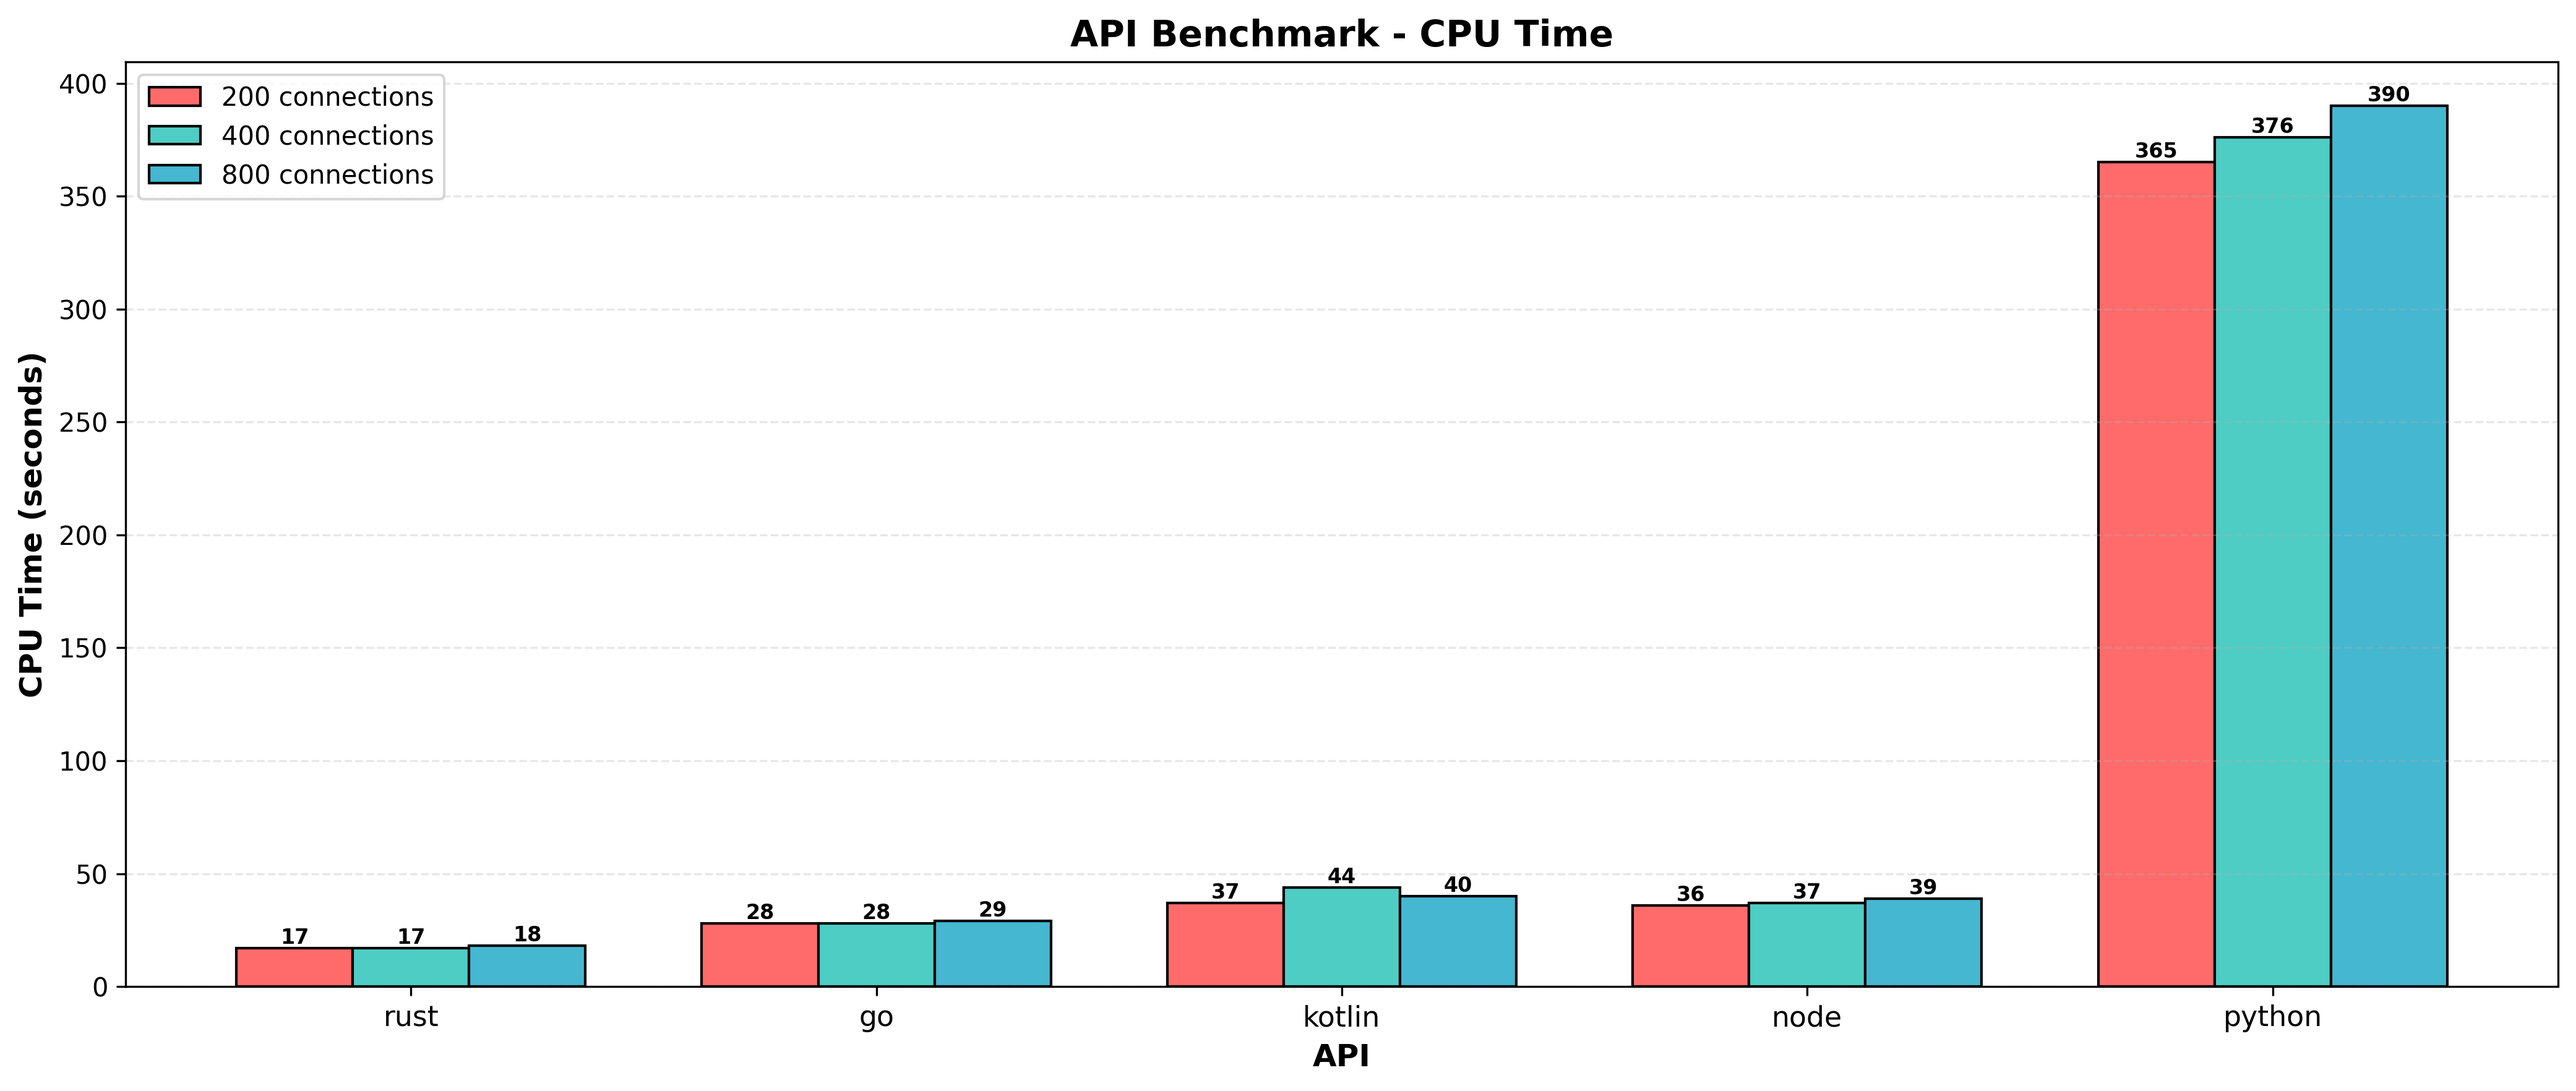
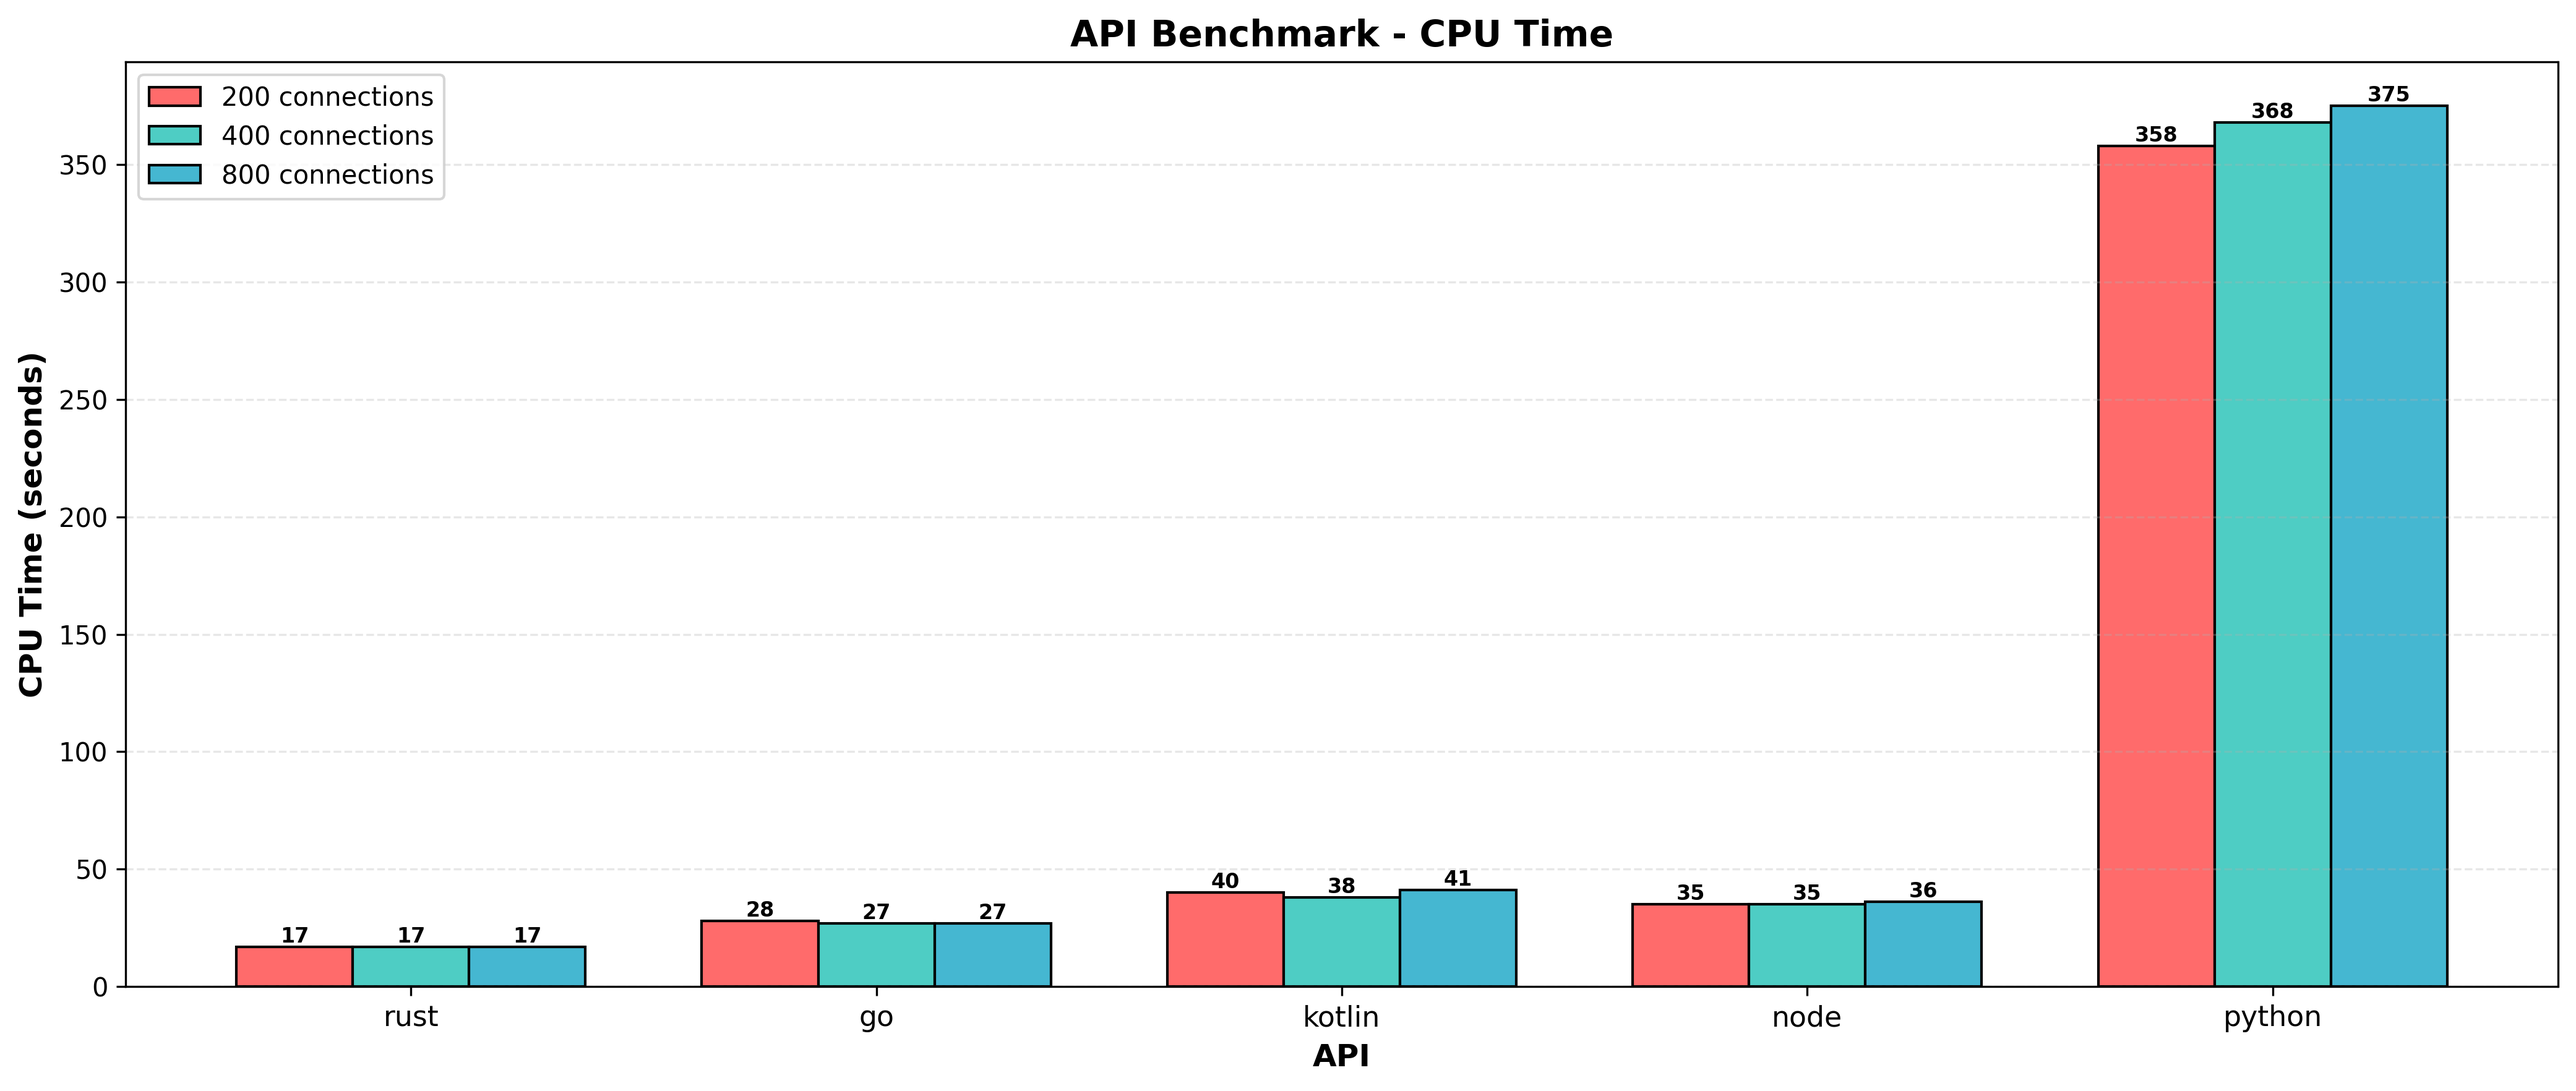
results from github actions autocommit

diff --git a/results/raw.md b/results/raw.md
@@ -1,6 +1,6 @@
 # Results
 ## Timestamp
-Mon Jan 19 11:14:04 UTC 2026
+Tue Jan 20 11:13:47 UTC 2026
 ## Hardware Info
 | CPU Model | Num CPUs | Memory |
 | --------- | -------- | ------ |
@@ -9,18 +9,18 @@ Mon Jan 19 11:14:04 UTC 2026
 ## Benchmarks of 1 Million Requests
 | Test Name | HTTP Conns | Success Rate | Test Seconds | Requests per Second | P50 Millis | P99 Millis | P99.9 Millis | API Memory MB | API CPU Time | API Threads | API Processes |
 | --------- | ---------- | ------------ | ------------ | ------------------- | ---------- | ---------- | ------------ | ------------- | ------------ | ----------- | ------------- |
-| rust | 200 | 100.0% | 8.9 | 111857.0 | 1.6486 | 4.5778 | 6.0794 | 8.5 | 00:00:17 | 5 | 1 |
-| rust | 400 | 100.0% | 8.7 | 113892.7 | 3.3246 | 7.4116 | 10.6793 | 13.1 | 00:00:17 | 5 | 1 |
-| rust | 800 | 100.0% | 9.5 | 105059.4 | 7.4581 | 11.6628 | 19.2290 | 22.0 | 00:00:18 | 5 | 1 |
-| go | 200 | 100.0% | 12.0 | 82866.1 | 1.8886 | 7.5844 | 10.5772 | 17.7 | 00:00:28 | 11 | 1 |
-| go | 400 | 100.0% | 11.8 | 84341.3 | 4.0249 | 14.2105 | 20.1639 | 24.2 | 00:00:28 | 10 | 1 |
-| go | 800 | 100.0% | 12.6 | 79583.0 | 9.0338 | 28.8661 | 42.6431 | 37.3 | 00:00:29 | 11 | 1 |
-| kotlin | 200 | 100.0% | 14.0 | 71034.5 | 1.9706 | 12.3152 | 33.7772 | 507.1 | 00:00:37 | 30 | 1 |
-| kotlin | 400 | 100.0% | 15.9 | 62584.4 | 5.3113 | 23.1090 | 67.1724 | 540.7 | 00:00:44 | 30 | 1 |
-| kotlin | 800 | 100.0% | 15.0 | 66431.5 | 10.1870 | 37.6515 | 104.4032 | 511.6 | 00:00:40 | 30 | 1 |
-| node | 200 | 100.0% | 36.3 | 27562.4 | 6.2970 | 10.0445 | 11.9367 | 106.2 | 00:00:36 | 7 | 1 |
-| node | 400 | 100.0% | 37.4 | 26706.3 | 13.1296 | 20.5084 | 25.4204 | 139.5 | 00:00:37 | 7 | 1 |
-| node | 800 | 100.0% | 39.3 | 25404.3 | 27.7191 | 42.3551 | 57.5091 | 147.6 | 00:00:39 | 7 | 1 |
-| python | 200 | 100.0% | 102.2 | 9790.2 | 24.8016 | 37.8330 | 44.4642 | 134.7 | 00:06:05 | 5 | 5 |
-| python | 400 | 100.0% | 104.7 | 9565.4 | 37.1236 | 76.9191 | 80.8802 | 135.7 | 00:06:16 | 5 | 5 |
-| python | 800 | 100.0% | 108.0 | 9267.4 | 75.9725 | 156.5296 | 167.6281 | 142.9 | 00:06:30 | 5 | 5 |
+| rust | 200 | 100.0% | 8.7 | 113947.9 | 1.6200 | 4.5016 | 6.0638 | 8.4 | 00:00:17 | 5 | 1 |
+| rust | 400 | 100.0% | 8.7 | 114830.0 | 3.2824 | 7.2873 | 10.3634 | 13.0 | 00:00:17 | 5 | 1 |
+| rust | 800 | 100.0% | 8.9 | 112298.2 | 6.9232 | 11.4720 | 16.8340 | 22.0 | 00:00:17 | 5 | 1 |
+| go | 200 | 100.0% | 11.8 | 84557.6 | 1.8524 | 7.3264 | 9.9897 | 17.8 | 00:00:28 | 11 | 1 |
+| go | 400 | 100.0% | 11.5 | 86784.9 | 3.9059 | 13.7690 | 19.3433 | 24.6 | 00:00:27 | 11 | 1 |
+| go | 800 | 100.0% | 11.5 | 86966.2 | 8.2144 | 25.2010 | 37.7019 | 37.1 | 00:00:27 | 11 | 1 |
+| kotlin | 200 | 100.0% | 14.6 | 68243.1 | 2.0349 | 12.1916 | 28.4287 | 518.6 | 00:00:40 | 30 | 1 |
+| kotlin | 400 | 100.0% | 14.1 | 70599.5 | 4.6139 | 20.7369 | 50.9359 | 522.3 | 00:00:38 | 30 | 1 |
+| kotlin | 800 | 100.0% | 15.0 | 66427.9 | 9.6585 | 43.6200 | 107.2083 | 744.9 | 00:00:41 | 30 | 1 |
+| node | 200 | 100.0% | 35.1 | 28413.7 | 6.0928 | 10.4312 | 12.9916 | 102.4 | 00:00:35 | 7 | 1 |
+| node | 400 | 100.0% | 34.7 | 28793.4 | 11.8408 | 19.0122 | 21.4296 | 139.2 | 00:00:35 | 7 | 1 |
+| node | 800 | 100.0% | 36.2 | 27594.7 | 25.5647 | 40.0158 | 44.4828 | 148.1 | 00:00:36 | 7 | 1 |
+| python | 200 | 100.0% | 99.8 | 10013.4 | 21.5417 | 33.6719 | 37.9226 | 134.4 | 00:05:58 | 5 | 5 |
+| python | 400 | 100.0% | 102.4 | 9750.2 | 32.8974 | 83.9483 | 96.4557 | 135.3 | 00:06:08 | 5 | 5 |
+| python | 800 | 100.0% | 103.8 | 10077.9 | 77.3188 | 129.9625 | 143.0013 | 144.0 | 00:06:15 | 5 | 5 |

diff --git a/results/latest.md b/results/latest.md
@@ -1,6 +1,6 @@
 # Latest Results
 
-Timestamp: `Mon Jan 19 11:14:04 UTC 2026`
+Timestamp: `Tue Jan 20 11:13:47 UTC 2026`
 
 ## Requests Per Second
 ![Requests Per Second](rps.png)
